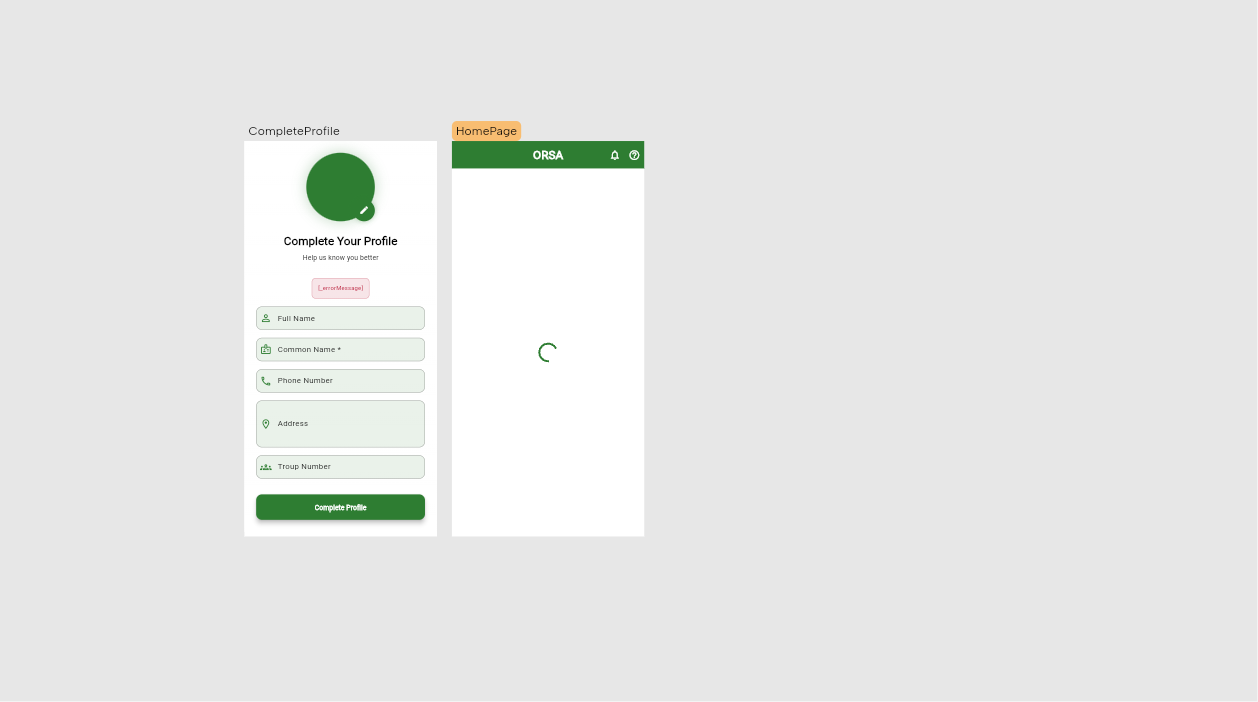
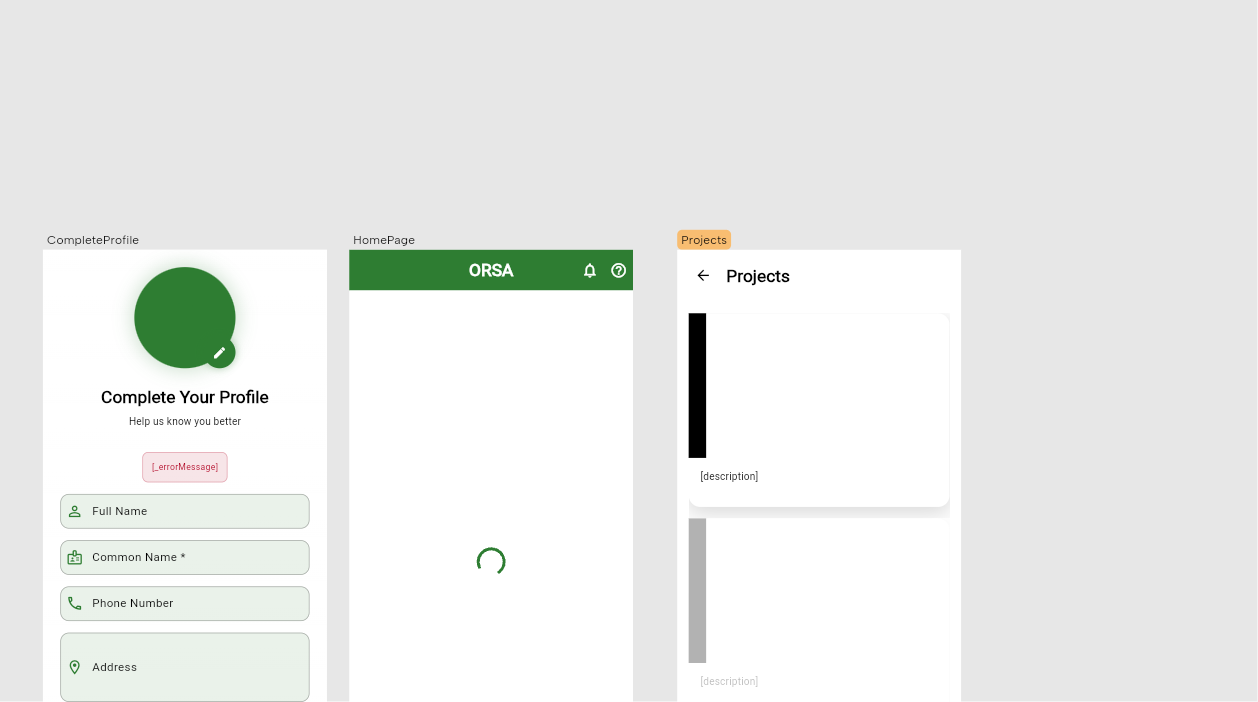
projects home done

diff --git a/lib/components/project_card.dart b/lib/components/project_card.dart
@@ -1,0 +1,227 @@
+import 'package:flutter/material.dart';
+import 'package:orsa_3/models/project_model.dart';
+import 'package:nowa_runtime/nowa_runtime.dart';
+
+@NowaGenerated()
+class ProjectCard extends StatelessWidget {
+  @NowaGenerated({'loader': 'auto-constructor'})
+  const ProjectCard({required this.project, super.key});
+
+  final ProjectModel project;
+
+  String truncateDescription(String? description) {
+    if (description == null) {
+      return '';
+    }
+    if (description!.length > 80) {
+      return '${description?.substring(0, 80)}...';
+    }
+    return description!;
+  }
+
+  @override
+  Widget build(BuildContext context) {
+    final colorScheme = Theme.of(context).colorScheme;
+    final textTheme = Theme.of(context).textTheme;
+    final budgetProgress = project.budgetGoal != null && project.budgetGoal! > 0
+        ? (project.budgetCollected ?? 0) / project.budgetGoal!
+        : 0;
+    final tasksProgress = project.totalTasks != null && project.totalTasks! > 0
+        ? (project.completedTasks ?? 0) / project.totalTasks!
+        : 0;
+    return Container(
+      margin: const EdgeInsets.only(bottom: 16),
+      decoration: BoxDecoration(
+        borderRadius: BorderRadius.circular(16),
+        color: colorScheme.surface,
+        boxShadow: [
+          BoxShadow(
+            color: colorScheme.shadow.withValues(alpha: 0.15),
+            blurRadius: 24,
+            offset: const Offset(0, 8),
+            spreadRadius: 2,
+          ),
+        ],
+      ),
+      child: Column(
+        crossAxisAlignment: CrossAxisAlignment.start,
+        children: [
+          Stack(
+            children: [
+              if (project.afterImageUrl != null)
+                Image.network(
+                  project.afterImageUrl!,
+                  height: 200,
+                  width: double.infinity,
+                  fit: BoxFit.cover,
+                  errorBuilder: (context, error, stackTrace) => Container(
+                    height: 200,
+                    color: colorScheme.outline,
+                    child: Icon(
+                      Icons.image_not_supported,
+                      color: colorScheme.onSurface,
+                    ),
+                  ),
+                )
+              else
+                Container(
+                  height: 200,
+                  color: colorScheme.outline,
+                  child: Icon(
+                    Icons.image_not_supported,
+                    color: colorScheme.onSurface,
+                  ),
+                ),
+              Positioned(
+                bottom: 0,
+                left: 0,
+                right: 0,
+                child: Container(
+                  decoration: BoxDecoration(
+                    gradient: LinearGradient(
+                      begin: Alignment.topCenter,
+                      end: Alignment.bottomCenter,
+                      colors: [
+                        Colors.transparent,
+                        Colors.black.withValues(alpha: 0.6),
+                      ],
+                    ),
+                  ),
+                  padding: const EdgeInsets.all(16),
+                  child: Column(
+                    crossAxisAlignment: CrossAxisAlignment.start,
+                    mainAxisSize: MainAxisSize.min,
+                    children: [
+                      if (project.projectType != null)
+                        Container(
+                          padding: const EdgeInsets.symmetric(
+                            horizontal: 8,
+                            vertical: 4,
+                          ),
+                          decoration: BoxDecoration(
+                            color: colorScheme.primary,
+                            borderRadius: BorderRadius.circular(8),
+                          ),
+                          child: Text(
+                            project.projectType!,
+                            style: textTheme.labelSmall?.copyWith(
+                              color: Colors.white,
+                              fontWeight: FontWeight.w600,
+                            ),
+                          ),
+                        ),
+                      const SizedBox(height: 8),
+                      Text(
+                        project.projectName,
+                        style: textTheme.titleLarge?.copyWith(
+                          fontWeight: FontWeight.bold,
+                          color: Colors.white,
+                        ),
+                        maxLines: 2,
+                        overflow: TextOverflow.ellipsis,
+                      ),
+                    ],
+                  ),
+                ),
+              ),
+            ],
+          ),
+          Padding(
+            padding: const EdgeInsets.all(16),
+            child: Column(
+              crossAxisAlignment: CrossAxisAlignment.start,
+              children: [
+                Text(
+                  truncateDescription(project.description),
+                  style: textTheme.bodyMedium?.copyWith(
+                    color: colorScheme.onSurfaceVariant,
+                  ),
+                  maxLines: 2,
+                  overflow: TextOverflow.ellipsis,
+                ),
+                const SizedBox(height: 16),
+                if (project.budgetGoal != null && project.budgetGoal! > 0)
+                  Column(
+                    crossAxisAlignment: CrossAxisAlignment.start,
+                    children: [
+                      Row(
+                        mainAxisAlignment: MainAxisAlignment.spaceBetween,
+                        children: [
+                          Text(
+                            'Budget Collected',
+                            style: textTheme.labelSmall?.copyWith(
+                              color: colorScheme.onSurfaceVariant,
+                            ),
+                          ),
+                          Text(
+                            '${(budgetProgress * 100).toStringAsFixed(0)}%',
+                            style: textTheme.labelSmall?.copyWith(
+                              color: colorScheme.primary,
+                              fontWeight: FontWeight.w600,
+                            ),
+                          ),
+                        ],
+                      ),
+                      const SizedBox(height: 6),
+                      ClipRRect(
+                        borderRadius: BorderRadius.circular(8),
+                        child: LinearProgressIndicator(
+                          value: budgetProgress.clamp(0, 1),
+                          minHeight: 8,
+                          backgroundColor: colorScheme.outline.withValues(
+                            alpha: 0.3,
+                          ),
+                          valueColor: AlwaysStoppedAnimation<Color>(
+                            colorScheme.primary,
+                          ),
+                        ),
+                      ),
+                      const SizedBox(height: 12),
+                    ],
+                  ),
+                if (project.totalTasks != null && project.totalTasks! > 0)
+                  Column(
+                    crossAxisAlignment: CrossAxisAlignment.start,
+                    children: [
+                      Row(
+                        mainAxisAlignment: MainAxisAlignment.spaceBetween,
+                        children: [
+                          Text(
+                            'Tasks Completed',
+                            style: textTheme.labelSmall?.copyWith(
+                              color: colorScheme.onSurfaceVariant,
+                            ),
+                          ),
+                          Text(
+                            '${(tasksProgress * 100).toStringAsFixed(0)}%',
+                            style: textTheme.labelSmall?.copyWith(
+                              color: colorScheme.secondary,
+                              fontWeight: FontWeight.w600,
+                            ),
+                          ),
+                        ],
+                      ),
+                      const SizedBox(height: 6),
+                      ClipRRect(
+                        borderRadius: BorderRadius.circular(8),
+                        child: LinearProgressIndicator(
+                          value: tasksProgress.clamp(0, 1),
+                          minHeight: 8,
+                          backgroundColor: colorScheme.outline.withValues(
+                            alpha: 0.3,
+                          ),
+                          valueColor: AlwaysStoppedAnimation<Color>(
+                            colorScheme.secondary,
+                          ),
+                        ),
+                      ),
+                    ],
+                  ),
+              ],
+            ),
+          ),
+        ],
+      ),
+    );
+  }
+}

diff --git a/lib/pages/projects.dart b/lib/pages/projects.dart
@@ -1,0 +1,74 @@
+import 'package:flutter/material.dart';
+import 'package:nowa_runtime/nowa_runtime.dart';
+import 'package:orsa_3/models/project_model.dart';
+import 'package:supabase_flutter/supabase_flutter.dart';
+import 'package:orsa_3/components/project_card.dart';
+
+@NowaGenerated()
+class Projects extends StatelessWidget {
+  @NowaGenerated({'loader': 'auto-constructor'})
+  const Projects({super.key});
+
+  Future<List<ProjectModel>> fetchProjects() async {
+    final response = await Supabase.instance.client
+        .from('projects')
+        .select()
+        .order('created_at', ascending: false);
+    return (response as List)
+        .map((item) => ProjectModel.fromJson(item))
+        .toList();
+  }
+
+  @override
+  Widget build(BuildContext context) {
+    return Scaffold(
+      body: SafeArea(
+        child: Column(
+          children: [
+            Padding(
+              padding: const EdgeInsets.all(16),
+              child: Row(
+                children: [
+                  IconButton(
+                    onPressed: () {
+                      Navigator.pop(context);
+                    },
+                    icon: const Icon(Icons.arrow_back),
+                  ),
+                  const SizedBox(width: 12),
+                  Text(
+                    'Projects',
+                    style: Theme.of(context).textTheme.headlineSmall?.copyWith(
+                      fontWeight: FontWeight.bold,
+                    ),
+                  ),
+                ],
+              ),
+            ),
+            Expanded(
+              child: DataBuilder<List<ProjectModel>>(
+                future: fetchProjects(),
+                builder: (context, projects) {
+                  if (projects.isEmpty) {
+                    return Center(
+                      child: Text(
+                        'No projects yet',
+                        style: Theme.of(context).textTheme.bodyLarge,
+                      ),
+                    );
+                  }
+                  return ListView.builder(
+                    itemCount: projects.length,
+                    padding: const EdgeInsets.all(16),
+                    itemBuilder: (context, index) =>
+                        ProjectCard(project: projects[index]),
+                  );
+                },
+              ),
+            ),
+          ],
+        ),
+      ),
+    );
+  }
+}

diff --git a/lib/models/project_model.dart b/lib/models/project_model.dart
@@ -1,0 +1,48 @@
+import 'package:nowa_runtime/nowa_runtime.dart';
+
+@NowaGenerated()
+class ProjectModel {
+  ProjectModel({
+    required this.id,
+    required this.projectName,
+    this.projectType,
+    this.afterImageUrl,
+    this.description,
+    this.budgetGoal,
+    this.budgetCollected,
+    this.totalTasks,
+    this.completedTasks,
+  });
+
+  factory ProjectModel.fromJson(Map<String, dynamic> json) {
+    return ProjectModel(
+      id: json['id'] as int,
+      projectName: json['project_name'] as String,
+      projectType: json['project_type'] as String?,
+      afterImageUrl: json['image_after_url'] as String?,
+      description: json['description'] as String?,
+      budgetGoal: (json['budget_goal'] as num?)?.toDouble(),
+      budgetCollected: (json['budget_collected'] as num?)?.toDouble(),
+      totalTasks: json['total_tasks'] as int?,
+      completedTasks: json['completed_tasks'] as int?,
+    );
+  }
+
+  final int id;
+
+  final String projectName;
+
+  final String? projectType;
+
+  final String? afterImageUrl;
+
+  final String? description;
+
+  final double? budgetGoal;
+
+  final double? budgetCollected;
+
+  final int? totalTasks;
+
+  final int? completedTasks;
+}
